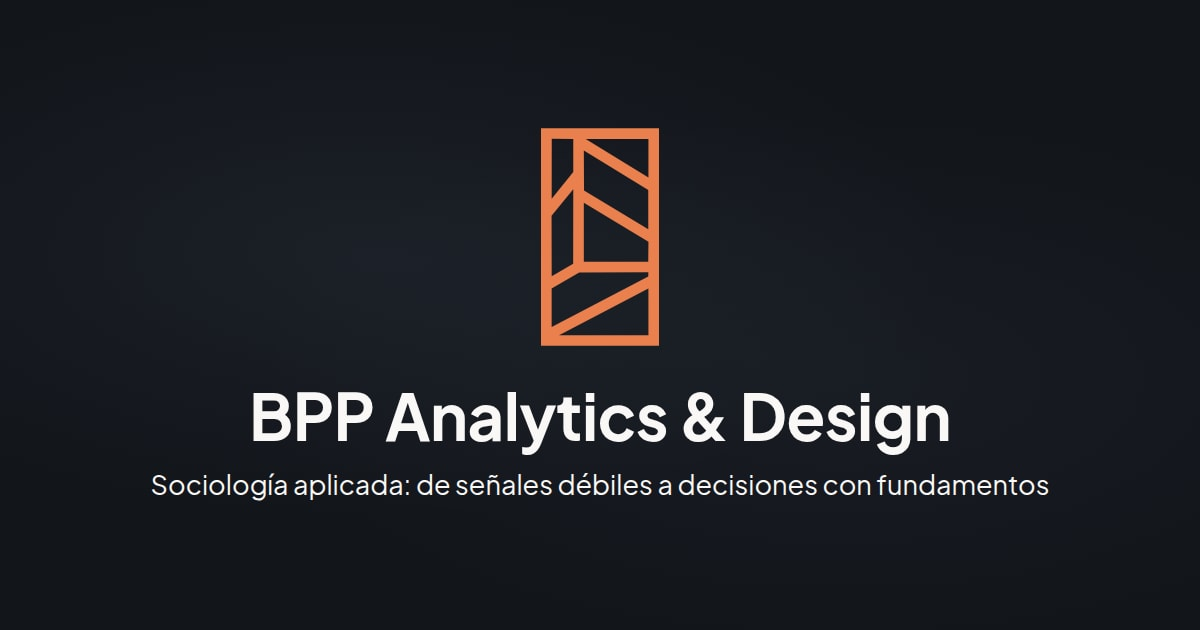
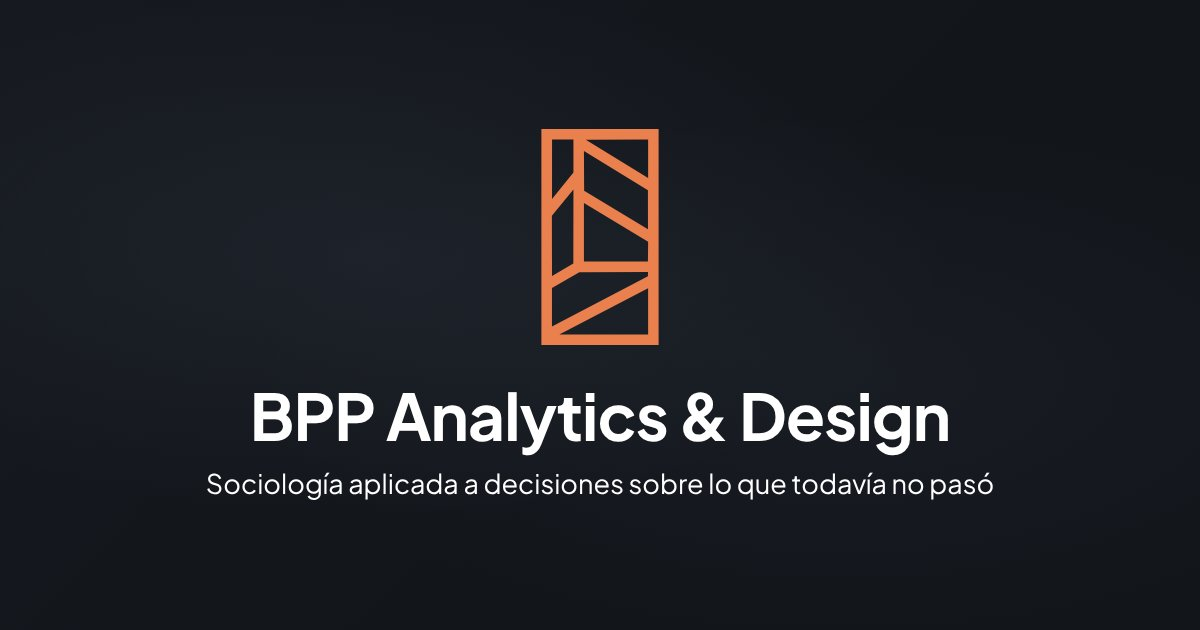
copy: el inicio sin eslogan ni frases de folleto
La frase del hero ("de señales débiles a decisiones con fundamentos")
era una promesa de antes y después; VOICE.md pide una tensión. Pasa a
"Sociología aplicada a decisiones sobre lo que todavía no pasó", en el
hero, el título, llms.txt, el README y la imagen al compartir, que se
volvió a renderizar igual con la frase nueva (?v=3 para las cachés).

El og:description seguía diciendo "líderes que enfrentan decisiones
críticas" y "ordenamos el caos". Dos títulos de servicio eran
promesas que podía firmar cualquier consultora, y las bajadas de
Datos e IA y de Comunicación copiaban frases de las biografías. Las
biografías pierden lo que repetía la frase nueva, un contraste y un
aforismo de cierre. Los enlaces dicen adónde llevan en lugar de "Leer
más" y "Ver proyecto".

El JSON-LD describía otro estudio: servicios viejos (uno con "hojas de
ruta"), cargos que no son los de la página y serviceType en inglés.

Claude-Session: https://claude.ai/code/session_011JZuZTxc98wx8JSGsVWU3n

diff --git a/README.md b/README.md
@@ -1,6 +1,6 @@
 # BPP Analytics & Design
 
-Sitio del estudio: [bppanalyticsanddesign.com](https://www.bppanalyticsanddesign.com/). Sociología aplicada: de señales débiles a decisiones con fundamentos. Buenos Aires y Madrid.
+Sitio del estudio: [bppanalyticsanddesign.com](https://www.bppanalyticsanddesign.com/). Sociología aplicada a decisiones sobre lo que todavía no pasó. Buenos Aires y Madrid.
 
 ## Cómo está hecho
 
